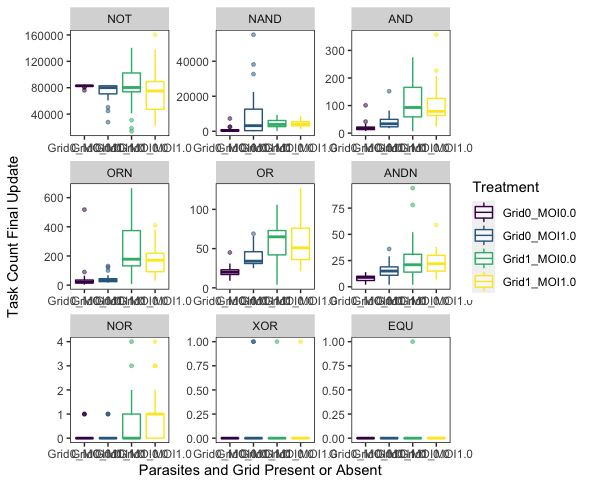
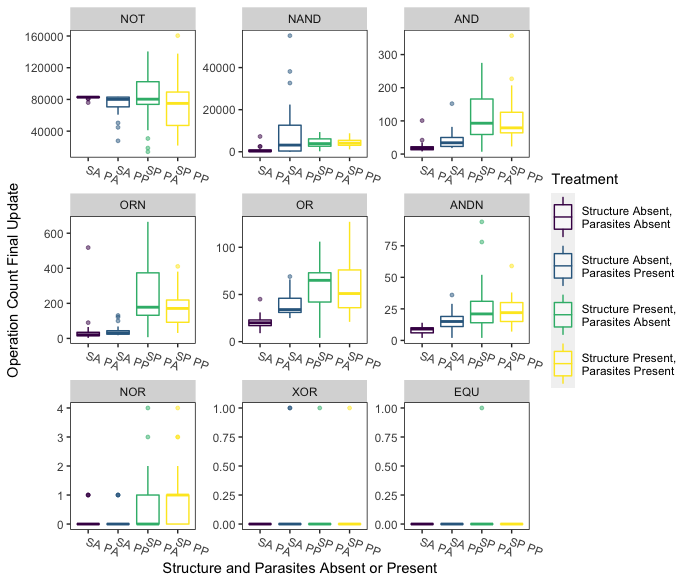
parasite code and data update

Changed region(s): [[0.0305, 0.0, 0.9746, 0.9897], [0.0, 0.3093, 0.0305, 0.6495], [0.3959, 0.1237, 0.4569, 0.1546]]

diff --git a/source/sgp_mode/GenomeLibrary.h b/source/sgp_mode/GenomeLibrary.h
@@ -15,14 +15,15 @@ using Library = sgpl::OpLibrary<
     inst::ShiftLeft, inst::ShiftRight, inst::Increment, inst::Decrement,
     // biological operations
     // no copy or alloc
-    inst::Reproduce, inst::PrivateIO, 
-    //inst::SharedIO,
+    inst::Reproduce, 
+    //inst::PrivateIO, 
+    inst::SharedIO,
     // double argument math
     inst::Add, inst::Subtract, inst::Nand,
     // Stack manipulation
     inst::Push, inst::Pop, inst::SwapStack, inst::Swap,
     // no h-search
-    //inst::Donate, 
+    inst::Donate, 
     inst::JumpIfNEq, inst::JumpIfLess, 
     //inst::Reuptake,
     //fls basics
@@ -60,6 +61,24 @@ public:
   sgpl::Program<Spec> Build(size_t length) {
     Add("Reproduce");
 
+    sgpl::Program<Spec> program;
+    // Set everything to 0 - this makes them no-ops since that's the first
+    // inst in the library
+    program.resize(length - size());
+    program[0].op_code = Library::GetOpCode("Global Anchor");
+    program[0].tag = START_TAG;
+
+    program.insert(program.end(), begin(), end());
+
+    return program;
+  }
+
+  sgpl::Program<Spec> BuildNoRepro(size_t length) {
+    Add("Donate");
+    Add("Donate");
+    Add("Donate");
+    Add("Donate");
+    Add("Donate");
     sgpl::Program<Spec> program;
     // Set everything to 0 - this makes them no-ops since that's the first
     // inst in the library
@@ -289,6 +308,12 @@ sgpl::Program<Spec> CreateSquareProgram(size_t length) {
   return program.Build(length);
 }
 
+sgpl::Program<Spec> CreateMutualistStart(size_t length) {
+  ProgramBuilder program;
+  program.AddNand();
+  return program.BuildNoRepro(length);
+}
+
 /**
  * Picks what type of starting program should be created based on the config and
  * creates it. It will be either random, a program that does NOT, or a program
@@ -298,7 +323,7 @@ sgpl::Program<Spec> CreateStartProgram(emp::Ptr<SymConfigBase> config) {
   if (config->RANDOM_ANCESTOR()) {
     return CreateRandomProgram(PROGRAM_LENGTH);
   } else if (config->TASK_TYPE() == 1) {
-    return CreatePrivateNotProgram(PROGRAM_LENGTH);
+    return CreateNotProgram(PROGRAM_LENGTH);
   } else {
     return CreateSquareProgram(PROGRAM_LENGTH);
   }

diff --git a/source/sgp_mode/SGPWorldSetup.cc b/source/sgp_mode/SGPWorldSetup.cc
@@ -9,10 +9,10 @@
 void SGPWorld::SetupHosts(unsigned long *POP_SIZE) {
   for (size_t i = 0; i < *POP_SIZE; i++) {
     emp::Ptr<SGPHost> new_org = emp::NewPtr<SGPHost>(
-        &GetRandom(), this, my_config, CreatePrivateNotProgram(100), my_config->HOST_INT());
+        &GetRandom(), this, my_config, CreateNotProgram(100), my_config->HOST_INT());
     if(my_config->START_MOI()==1){
       emp::Ptr<SGPSymbiont> new_sym = emp::NewPtr<SGPSymbiont>(
-          &GetRandom(), this, my_config, my_config->SYM_INT());
+          &GetRandom(), this, my_config, CreateMutualistStart(100), my_config->SYM_INT());
       new_org->AddSymbiont(new_sym);
     }
     InjectHost(new_org);

diff --git a/source/default_mode/Host.h b/source/default_mode/Host.h
@@ -439,11 +439,12 @@ public:
    * Purpose: To add a symbionts to a host's symbionts
    */
   int AddSymbiont(emp::Ptr<Organism> _in) {
-    if((int)syms.size() >= my_config->SYM_LIMIT()){
-      emp::Ptr<Organism> last_sym = syms.back();
-      syms.pop_back();
-      last_sym->SetDead();
-    }
+    // Ousting code:
+    // if((int)syms.size() >= my_config->SYM_LIMIT()){
+    //   emp::Ptr<Organism> last_sym = syms.back();
+    //   syms.pop_back();
+    //   last_sym->SetDead();
+    // }
 
     if((int)syms.size() < my_config->SYM_LIMIT() && SymAllowedIn()){
       syms.push_back(_in);

diff --git a/source/sgp_mode/Instructions.h b/source/sgp_mode/Instructions.h
@@ -124,7 +124,6 @@ void AddOrganismPoints(CPUState state, uint32_t output) {
 }
 // Set output to value of register and set register to new input
 INST(SharedIO, {
-  std::cout << "shared io" << std::endl;
   AddOrganismPoints(state, *a);
   uint32_t next;
   if (state.world->GetConfig()->RANDOM_IO_INPUT()) {
